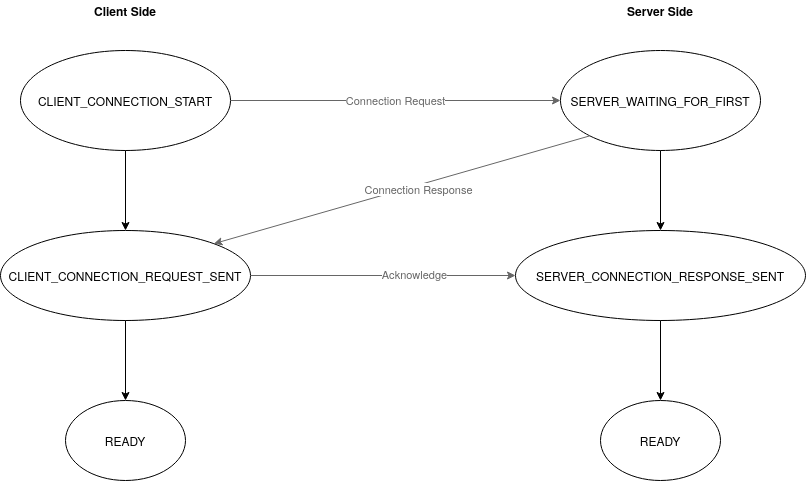
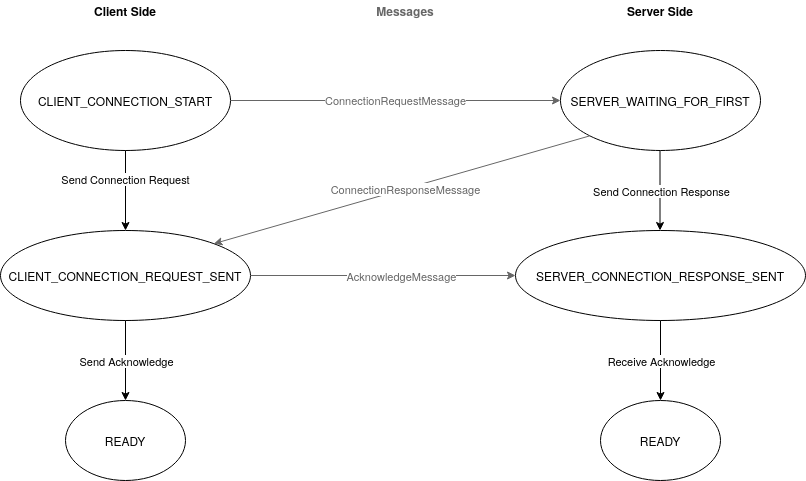
Improve images and text

diff --git a/doc/doxygen/markdown/message_structure.md b/doc/doxygen/markdown/message_structure.md
@@ -1,6 +1,6 @@
 \page message-structure Message Structure
 
-| Content       | Escape Sequence (Flag) | Message Type | Message Sequence| Length of Payload | Payload | CRC | Escape Sequence (Flag)
-| :------------- | :----------: | :-----------: | :-----------: | :-----------: | :-----------: | :-----------: | :-----------: |
-| Content of Acknowledge Message     | \" | \" | \" | \"  | Acknowledged Message Sequence | \"  | \"
-| Size in Bytes | 1 | 1 | 2 | 0 or 2 | 0 - (2^16-1) | 4 | 1
+| Content       | Escape Sequence (Flag) | Message Type | Message Sequence| Length of Payload | Payload | CRC | Escape Sequence (Flag) | End Marker
+| :------------- | :----------: | :-----------: | :-----------: | :-----------: | :-----------: | :-----------: | :-----------: | :-----------:
+| Content of Acknowledge Message     | \" | \" | \" | \"  | Acknowledged Message Sequence | \"  | \" | \"
+| Size in Bytes | 1 | 1 | 2 | 0 or 2 | 0 - (2^16-1) | 4 | 1 | 1

diff --git a/doc/doxygen/markdown/connection_states.md b/doc/doxygen/markdown/connection_states.md
@@ -2,6 +2,6 @@
 
 \image html connection_states.png
 
-If a message is sent, the state is changed from READY to WAITING_FOR_ACKNOWLEDGE. While in WAITING_FOR_ACKNOWLEDGE, new
-messages can still be sent. After ACKNOWLEDGEs have been received for all sent messages, the state is changed to READY
+If a message is sent, the state is changed from READY to WAITING_FOR_ACKNOWLEDGE. 
+After ACKNOWLEDGEs have been received for all sent messages, the state is changed to READY
 again. 

diff --git a/doc/doxygen/markdown/game_world_rules.md b/doc/doxygen/markdown/game_world_rules.md
@@ -38,7 +38,7 @@ Collection of decisions and conventions implemented in the game.
 
 The world's coordinate system is orientated as follows:
 
-<img src="coordinate_system.png" align="left"/><br>
+<img src="coordinate_system.png" align="left"/><br/>
 
 * x-axis to the right
 * y-axis to the bottom 
